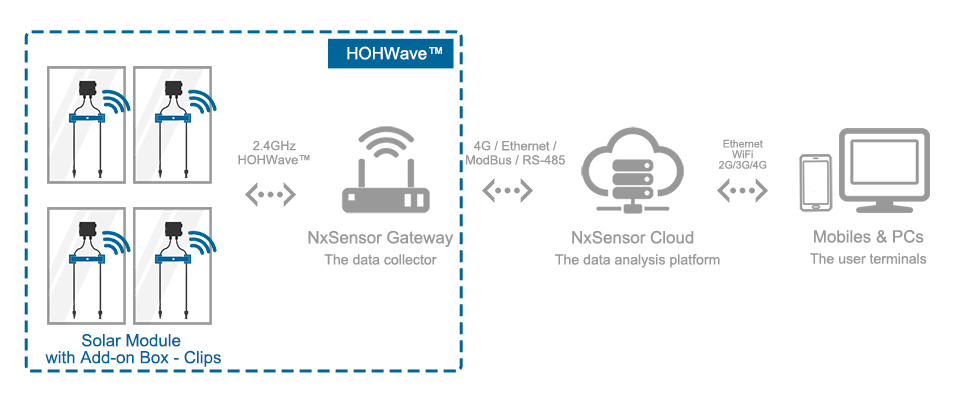
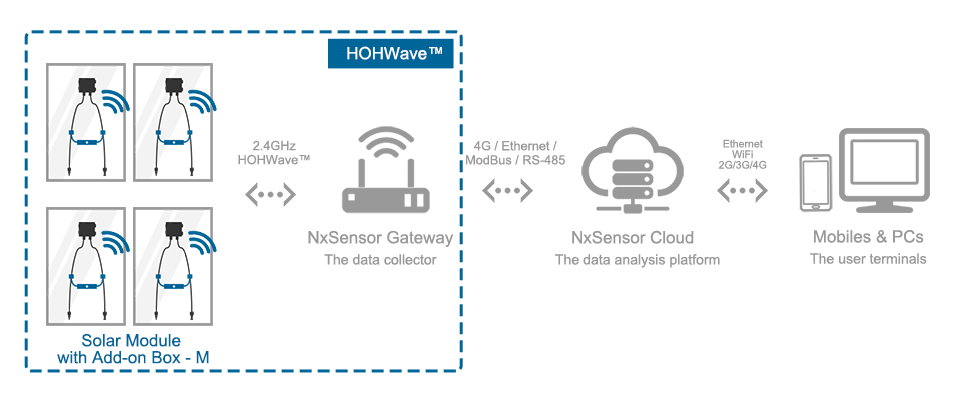
change wiring connection pics

Changed region(s): [[0.0312, 0.15, 0.2188, 0.48], [0.0312, 0.57, 0.2188, 0.81], [0.0312, 0.87, 0.25, 0.93]]

diff --git a/en/products/add-on-retrofit-box-x.html b/en/products/add-on-retrofit-box-x.html
@@ -134,7 +134,7 @@
           </ul>
 
           <h2>Wiring & Connection</h2>
-          <p>The add-on/retrofit boxes is connected in series between two solar panels. The wiring is simple and straightforward: </p>
+          <p>The add-on/retrofit boxes is connected in parallel with the solar panel. It will replace the original +/- cable output. The wiring is straightforward: </p>
           <div align="center">
             <img class="nobottom" src="../img/products/add-on-retrofit-junction-box-wiring-steps.png" alt="Wiring and connecting of Add-on/retrofit solar panel sensors and MLPE devices." width="800" />
             <p class="imgdesc">Wiring and connecting of the add-on/retrofit J-Box</p>

diff --git a/en/products/sensor-unit.html b/en/products/sensor-unit.html
@@ -164,9 +164,9 @@
           <h2>Tech Specs</h2>
           <ul class="keypoints">
             <li>Voltage measurement: 7V to 60V, ±0.2V;</li>
-            <li>Temperature measurement: -40°C to 75°C, ±0.5°C;</li>
+            <li>Temperature measurement: -30°C to 75°C, ±0.5°C;</li>
             <!-- <li>Maximum input voltage: 90V;</li> -->
-            <li>PCB dimension of 40 mm * 28 mm * 4 mm;</li>
+            <li>PCB dimension of 39 mm * 28 mm * 4 mm;</li>
             <li>NEC 2017 690.12 rapid shutdown compliant;</li>
             <li>2.4GHz ISM RF with HOHWave™ mesh network;</li>
           </ul>
